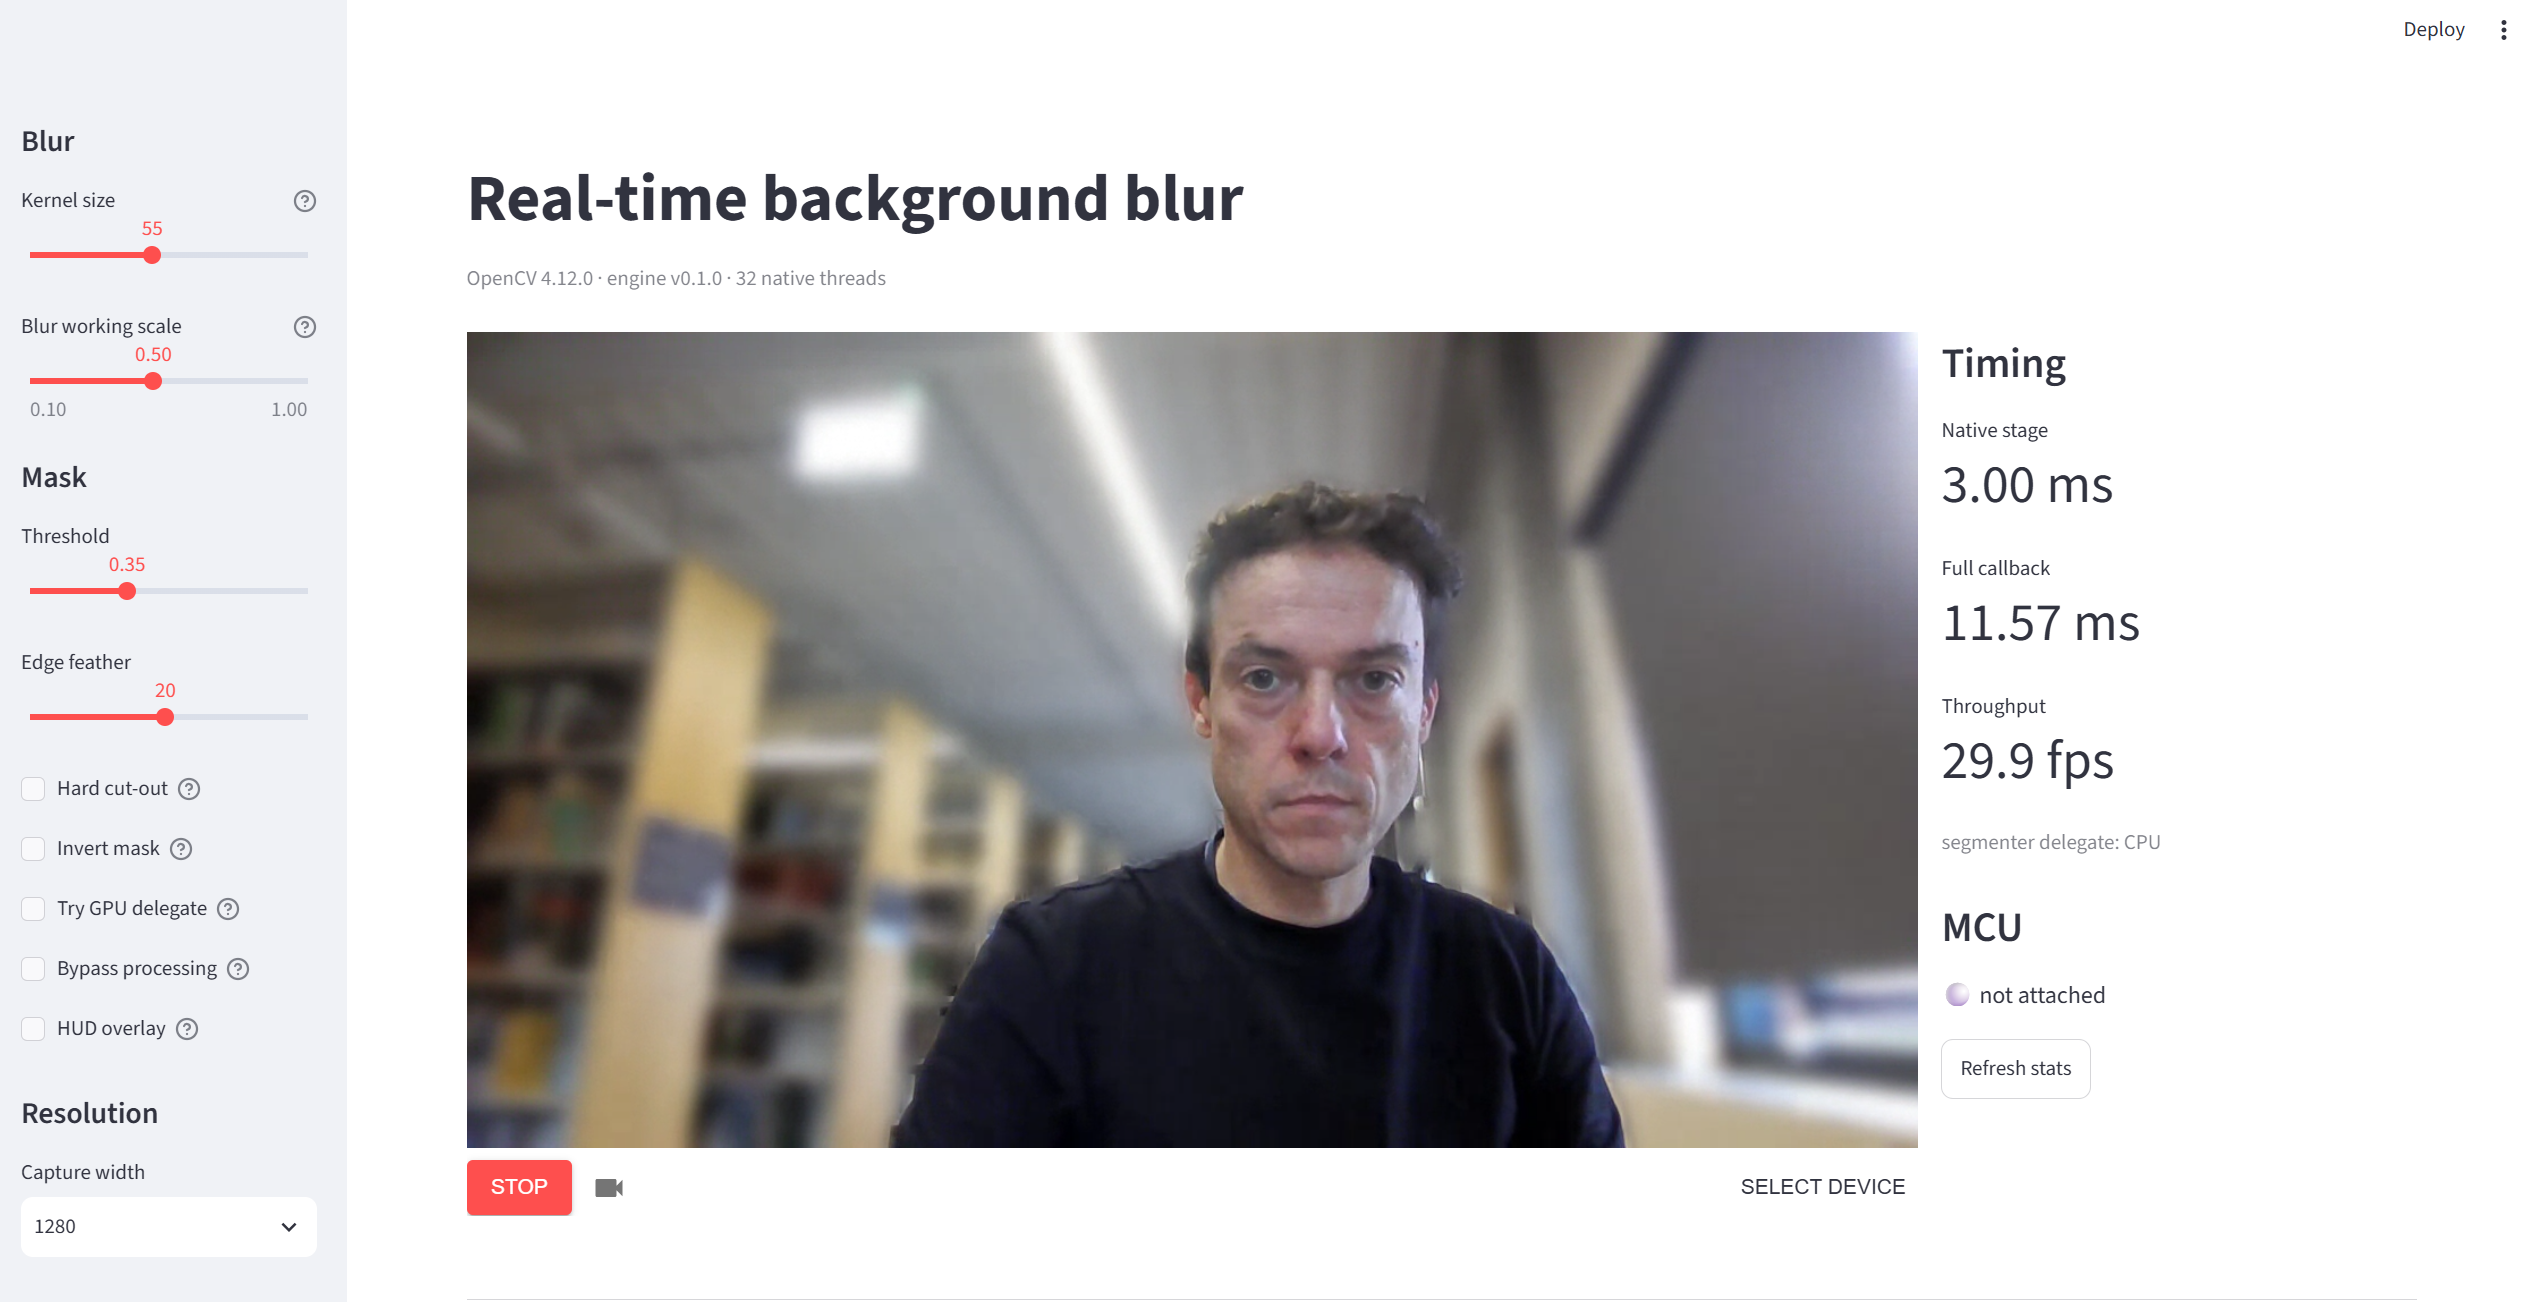
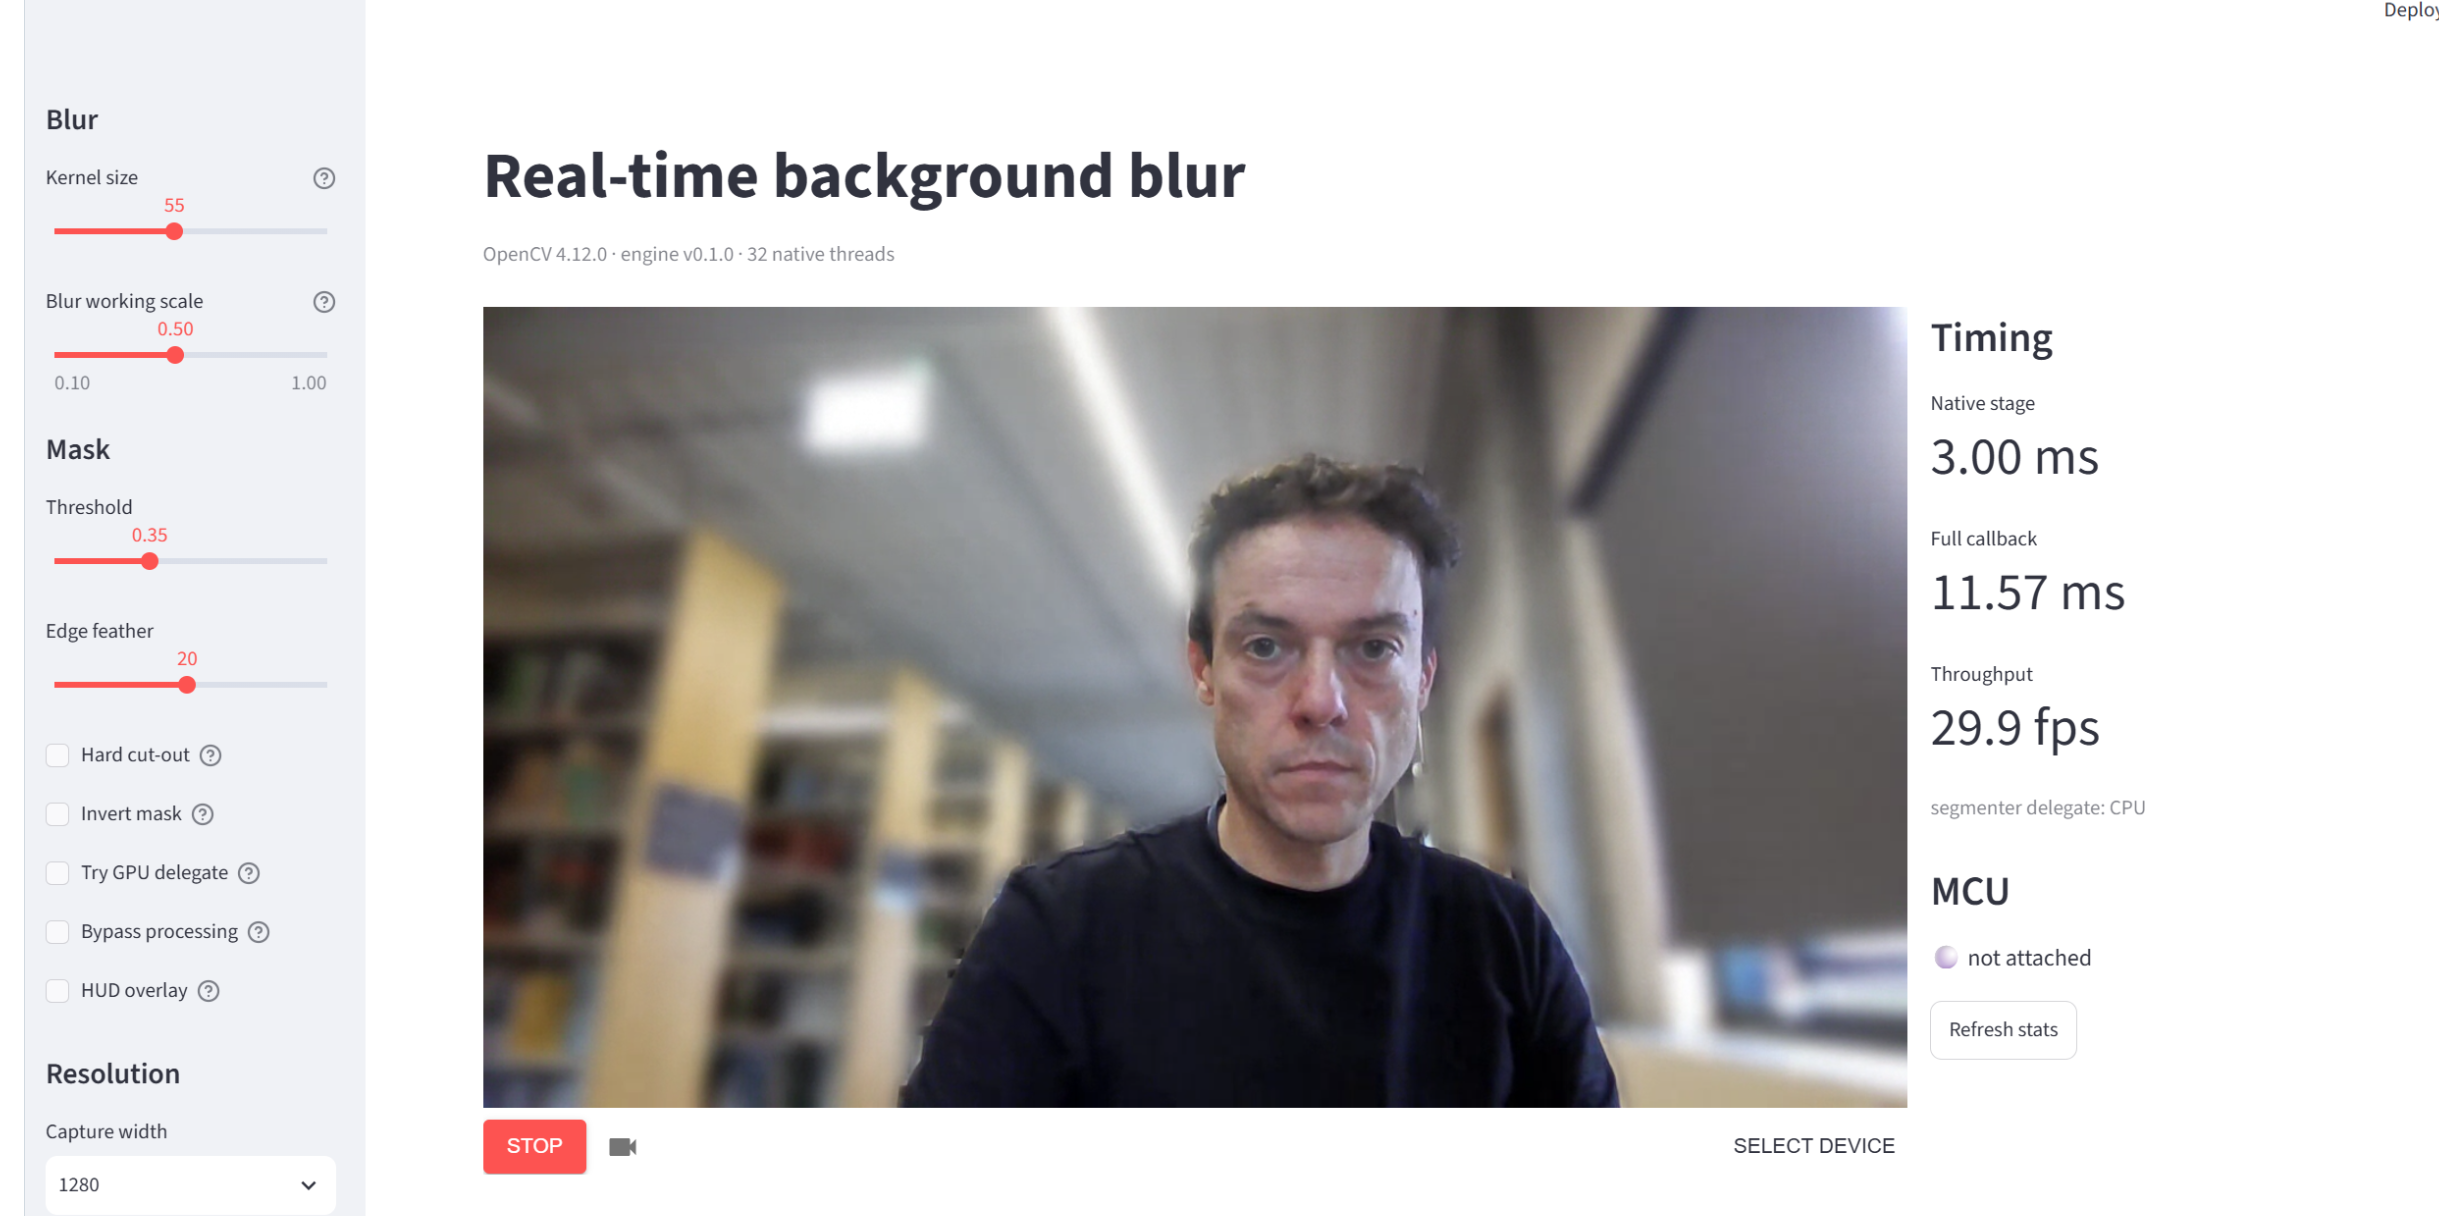
Screenshots updated after enabling MCU connection

diff --git a/src/python-server/app.py b/src/python-server/app.py
@@ -70,6 +70,24 @@ except ImportError as exc:  # pragma: no cover
     )
     st.stop()
 
+# Monkey-patch aiortc's RemoteBitrateEstimator to enforce a minimum bandwidth floor.
+# Prevents WebRTC (GCC) from aggressively downscaling resolution or encoding quality 
+# under perceived local CPU/network pressure by overriding the estimated bitrate.
+import aiortc.rtcrtpreceiver as rr
+from aiortc.rate import RemoteBitrateEstimator
+
+FLOOR = 8_000_000
+
+class GenerousEstimator(RemoteBitrateEstimator):
+    def add(self, *args, **kwargs):
+        result = super().add(*args, **kwargs)
+        if result is None:
+            return None
+        _, ssrcs = result
+        return (FLOOR, ssrcs)
+
+rr.RemoteBitrateEstimator = GenerousEstimator
+
 from streamlit_webrtc import VideoProcessorBase, WebRtcMode, webrtc_streamer  # noqa: E402
 
 # MediaPipe's legacy `mp.solutions.*` API was removed after 0.10.21; on 0.10.30+
@@ -571,9 +589,9 @@ with st.sidebar:
     st.header("Upstream MCU")
     mcu_enabled = st.checkbox("Forward to MCU", value=False)
     mcu_url = st.text_input("Signaling endpoint",
-                            value="http://127.0.0.1:8080/offer",
+                            value="http://127.0.0.1:8080/whip",
                             disabled=not mcu_enabled)
-    mcu_signaling = st.radio("Handshake", ["json", "whip"], horizontal=True,
+    mcu_signaling = st.radio("Handshake", ["json", "whip"], index=1, horizontal=True,
                              disabled=not mcu_enabled)
 
 RTC_CONFIG = {"iceServers": [{"urls": ["stun:stun.l.google.com:19302"]}]}

diff --git a/README.md b/README.md
@@ -1,7 +1,18 @@
 # NetworkTools
 
 <p align="left">
-  <img src="screenshots/Screenshot-01.png" alt="NetworkTools Screenshot" width="90%" />
+  <img src="screenshots/Screenshot-01.png" alt="Streamlit UI — background blur active, MCU connected" width="90%" />
+  <br/><sub>Streamlit UI: background blur active (kernel 55, scale 0.50 · mask threshold 0.25 · edge feather 20), OpenCV 4.12.0, ~28.9 fps on CPU, MCU connected</sub>
+</p>
+
+<p align="left">
+  <img src="screenshots/Screenshot-02.png" alt="MCU subscriber page — raw upstream WebRTC stream" width="60%" />
+  <br/><sub>MCU subscriber page: raw upstream WebRTC stream received from the Streamlit backend, ICE connection established</sub>
+</p>
+
+<p align="left">
+  <img src="screenshots/Screenshot-03.png" alt="Streamlit UI — alternative configuration" width="90%" />
+  <br/><sub>Streamlit UI: additional configuration / state view</sub>
 </p>
 
 **NetworkTools** is a real-time WebRTC background-blur application. A browser captures the webcam via `getUserMedia`, a Python/Streamlit backend runs MediaPipe person segmentation and forwards each frame into a native C++/OpenCV engine (bound with pybind11) that blurs the background and composites the result, and the processed stream is sent back to the browser and, optionally, relayed to an upstream WebRTC MCU.
@@ -30,7 +41,7 @@ av.VideoFrame  ──► back to Chrome (loopback, always)
                 └─► optional second hop to an upstream WebRTC MCU (MCUForwarder)
 ```
 
-Everything downstream of the browser runs inside a single WebRTC worker thread per stream; the native engine and the segmenter are the only per-frame costs that matter (roughly 6–7 ms and 6–15 ms respectively on CPU for a 720p frame).
+Everything downstream of the browser runs inside a single WebRTC worker thread per stream; the native engine and the segmenter are the only per-frame costs that matter (roughly 6–7 ms and 6–15 ms respectively on CPU for a 720p frame). Capture resolution up to 1920×1080 is supported and reachable via the sidebar control.
 
 ## Components
 
@@ -49,6 +60,7 @@ Everything downstream of the browser runs inside a single WebRTC worker thread p
   - A preflight check (`check_mediapipe_runtime`) loads MediaPipe's native library at startup so a missing system OpenGL/EGL dependency surfaces as a clear Streamlit error instead of a raw `OSError` from inside a worker thread.
   - Sidebar controls: blur kernel size and working scale, mask threshold/feather/hard-cutoff/invert, GPU-delegate toggle, capture resolution, bypass (A/B) toggle, HUD toggle, and MCU forwarding target.
 - `smoke_test.py`: exercises the native engine in isolation (no browser/WebRTC involved) — verifies mask polarity, background blurring, the zero-allocation (`process_into`) and in-place (`process_inplace`) paths agree with the default `process()`, the HUD overlay, and prints a 720p per-frame timing benchmark.
+- `test/test_mcu_stream.py`: end-to-end MCU streaming test — pushes a processed stream to a local WHIP/WHEP server (e.g. [pion/webrtc](https://github.com/pion/webrtc), a pure-Go WebRTC stack used here as a lightweight MCU for development) and verifies the relay path independently of the Streamlit UI.
 - `requirements.txt`: Python dependencies — `pybind11` (build-time only, for the native module), `streamlit` + `streamlit-webrtc` + `aiortc` + `av` (WebRTC), `aiohttp` (MCU signalling), `mediapipe`, `numpy` (pinned `<2.1` for MediaPipe's ABI). `opencv-python` is deliberately absent: all OpenCV work happens inside `cpp_video_engine`, which statically links its own copy.
 - `models/`: holds `selfie_segmenter.tflite`, downloaded automatically on first run (falls back to a manual `curl` command shown in the UI if the model host is unreachable).
 
